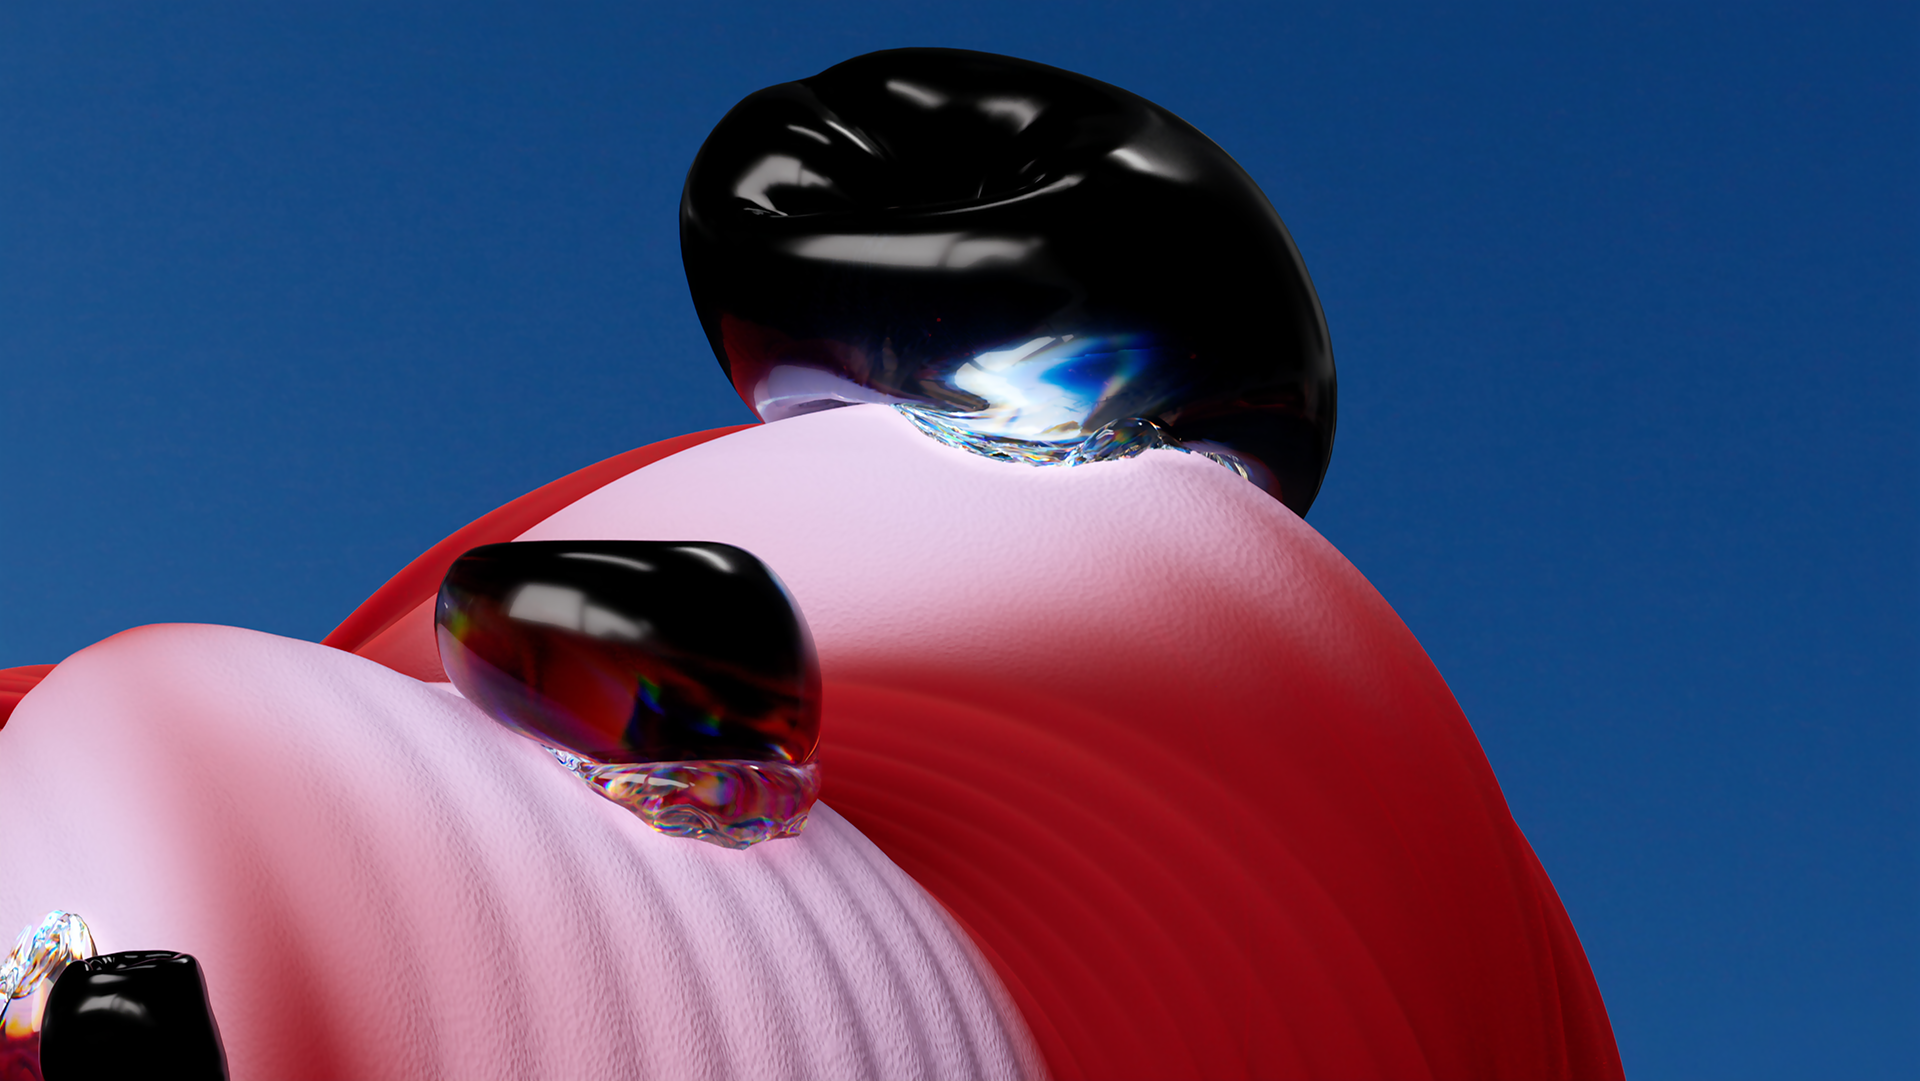
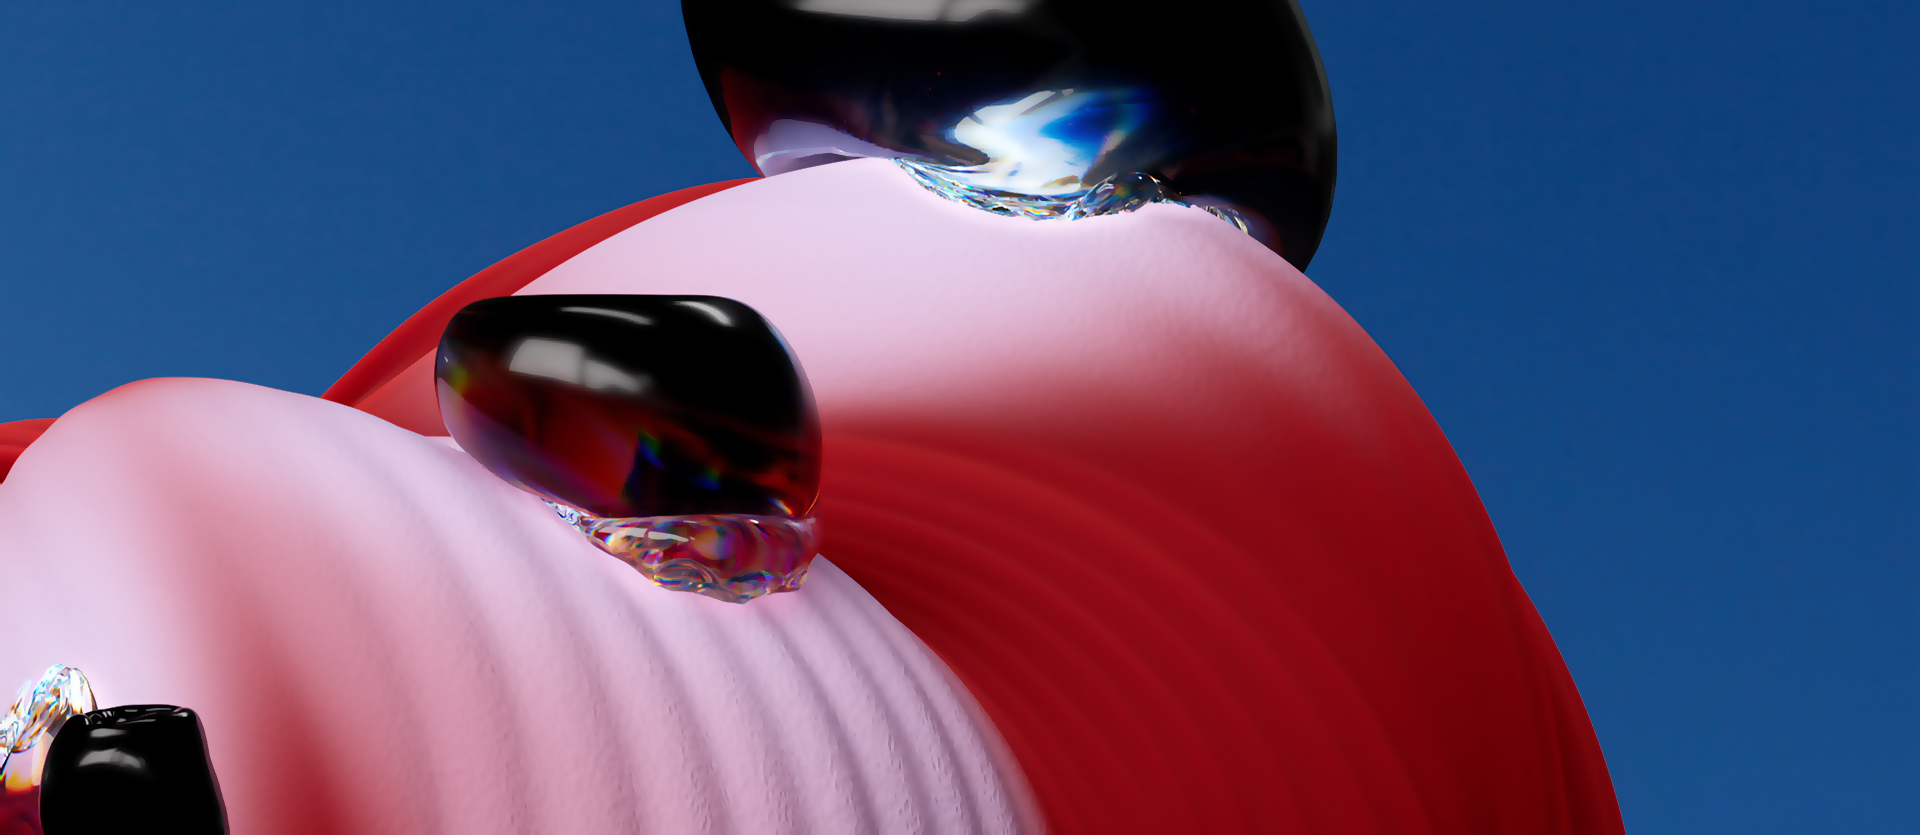
update my page dev

diff --git a/src/Components/Discover/DiscoverWebDevelopper/WebDevelopper.jsx b/src/Components/Discover/DiscoverWebDevelopper/WebDevelopper.jsx
@@ -1,6 +1,6 @@
-import translations from "../translate.jsx";
-import { useLanguage } from "../../../context/LanguageProvider.jsx";
 import { NavLink } from "react-router-dom";
+import { useLanguage } from "../../../context/LanguageProvider.jsx";
+import translations from "../translate.jsx";
 import NavbarDiscoverWebDevelopper from "../../Navigation/NavbarDiscover/DiscoverWebDevelopperNavbar";
 import Avatar from "../../UI/Avatar/TemplateAvatarWebDeveloper";
 import LogoInsta from "../../../assets/instagram1.png";
@@ -115,20 +115,20 @@ const DiscoverWebDeveloper = () => {
           <img src={PatternLouisa} className="-rotate-6" />
         </div>
         <div className="p-6 bg-F9FEFE sm:w-96 sm:h-1/2 text-center rounded-lg shadow-md rotate-6">
-          <div className="mt-5">
-            <p className="text-C22E2E mb-3 sm:text-base text-sm">
+          <div className="mt-5 text-base">
+            <p className="text-C22E2E mb-3">
               Hello ! Je m'appelle Louisa, je suis passionnée par le
-              Développement web. Mon voyage a débuté en 2022, j'ai étudié à
-              Paris en France, en me formant à travers des écoles ainsi qu'un
-              travail personnel régulier. J'aime voyager, lire des livres, et
-              aussi la photographie.
+              Développement web & le Design. Mon voyage a débuté en 2022 alors
+              que j'ai étudié à Paris en France, en me formant à travers des
+              écoles ainsi qu'un travail personnel régulier. J'aime voyager,
+              lire des livres, et aussi la photographie.
             </p>
-            <p className="text-C22E2E mb-5 sm:text-base text-sm">
+            <p className="text-C22E2E mb-5">
               C'est pour cela que cette idée de création avec Mélissa m'a donc
               donné de la motivation de créer mon agence pour unir nos
               compétences. Je t'invite à naviger les pages de notre site, conçu
-              avec une grande passion et un immense plaisir de vous la partager
-              ! ☺
+              avec une grande passion et un immense plaisir de te la partager !
+              ☺
             </p>
           </div>
         </div>

diff --git a/src/Components/Section/SecondSection.jsx b/src/Components/Section/SecondSection.jsx
@@ -12,9 +12,9 @@ const SecondSection = () => {
         >
           {translations[language].titleSecondSectionFr}
           {translations[language].titleSecondSectionEn}
-          <div className="flex justify-start">
+          {/* <div className="flex justify-start">
             <span className="absolute w-28 h-1 bg-FFF6E4"></span>
-          </div>
+          </div> */}
         </h3>
         <div className="mt-8 flex flex-wrap justify-center items-center space-x-0 sm:space-x-6">
           <div className="w-80 mt-5">

diff --git a/src/index.css b/src/index.css
@@ -85,7 +85,7 @@ textarea {
 }
 
 .image-navi-studio-home {
-    background-image: url('./assets/bg-home-1.png');
+    background-image: url('./assets/bg-home.png');
     background-repeat: no-repeat;
     background-size: cover;
 }
